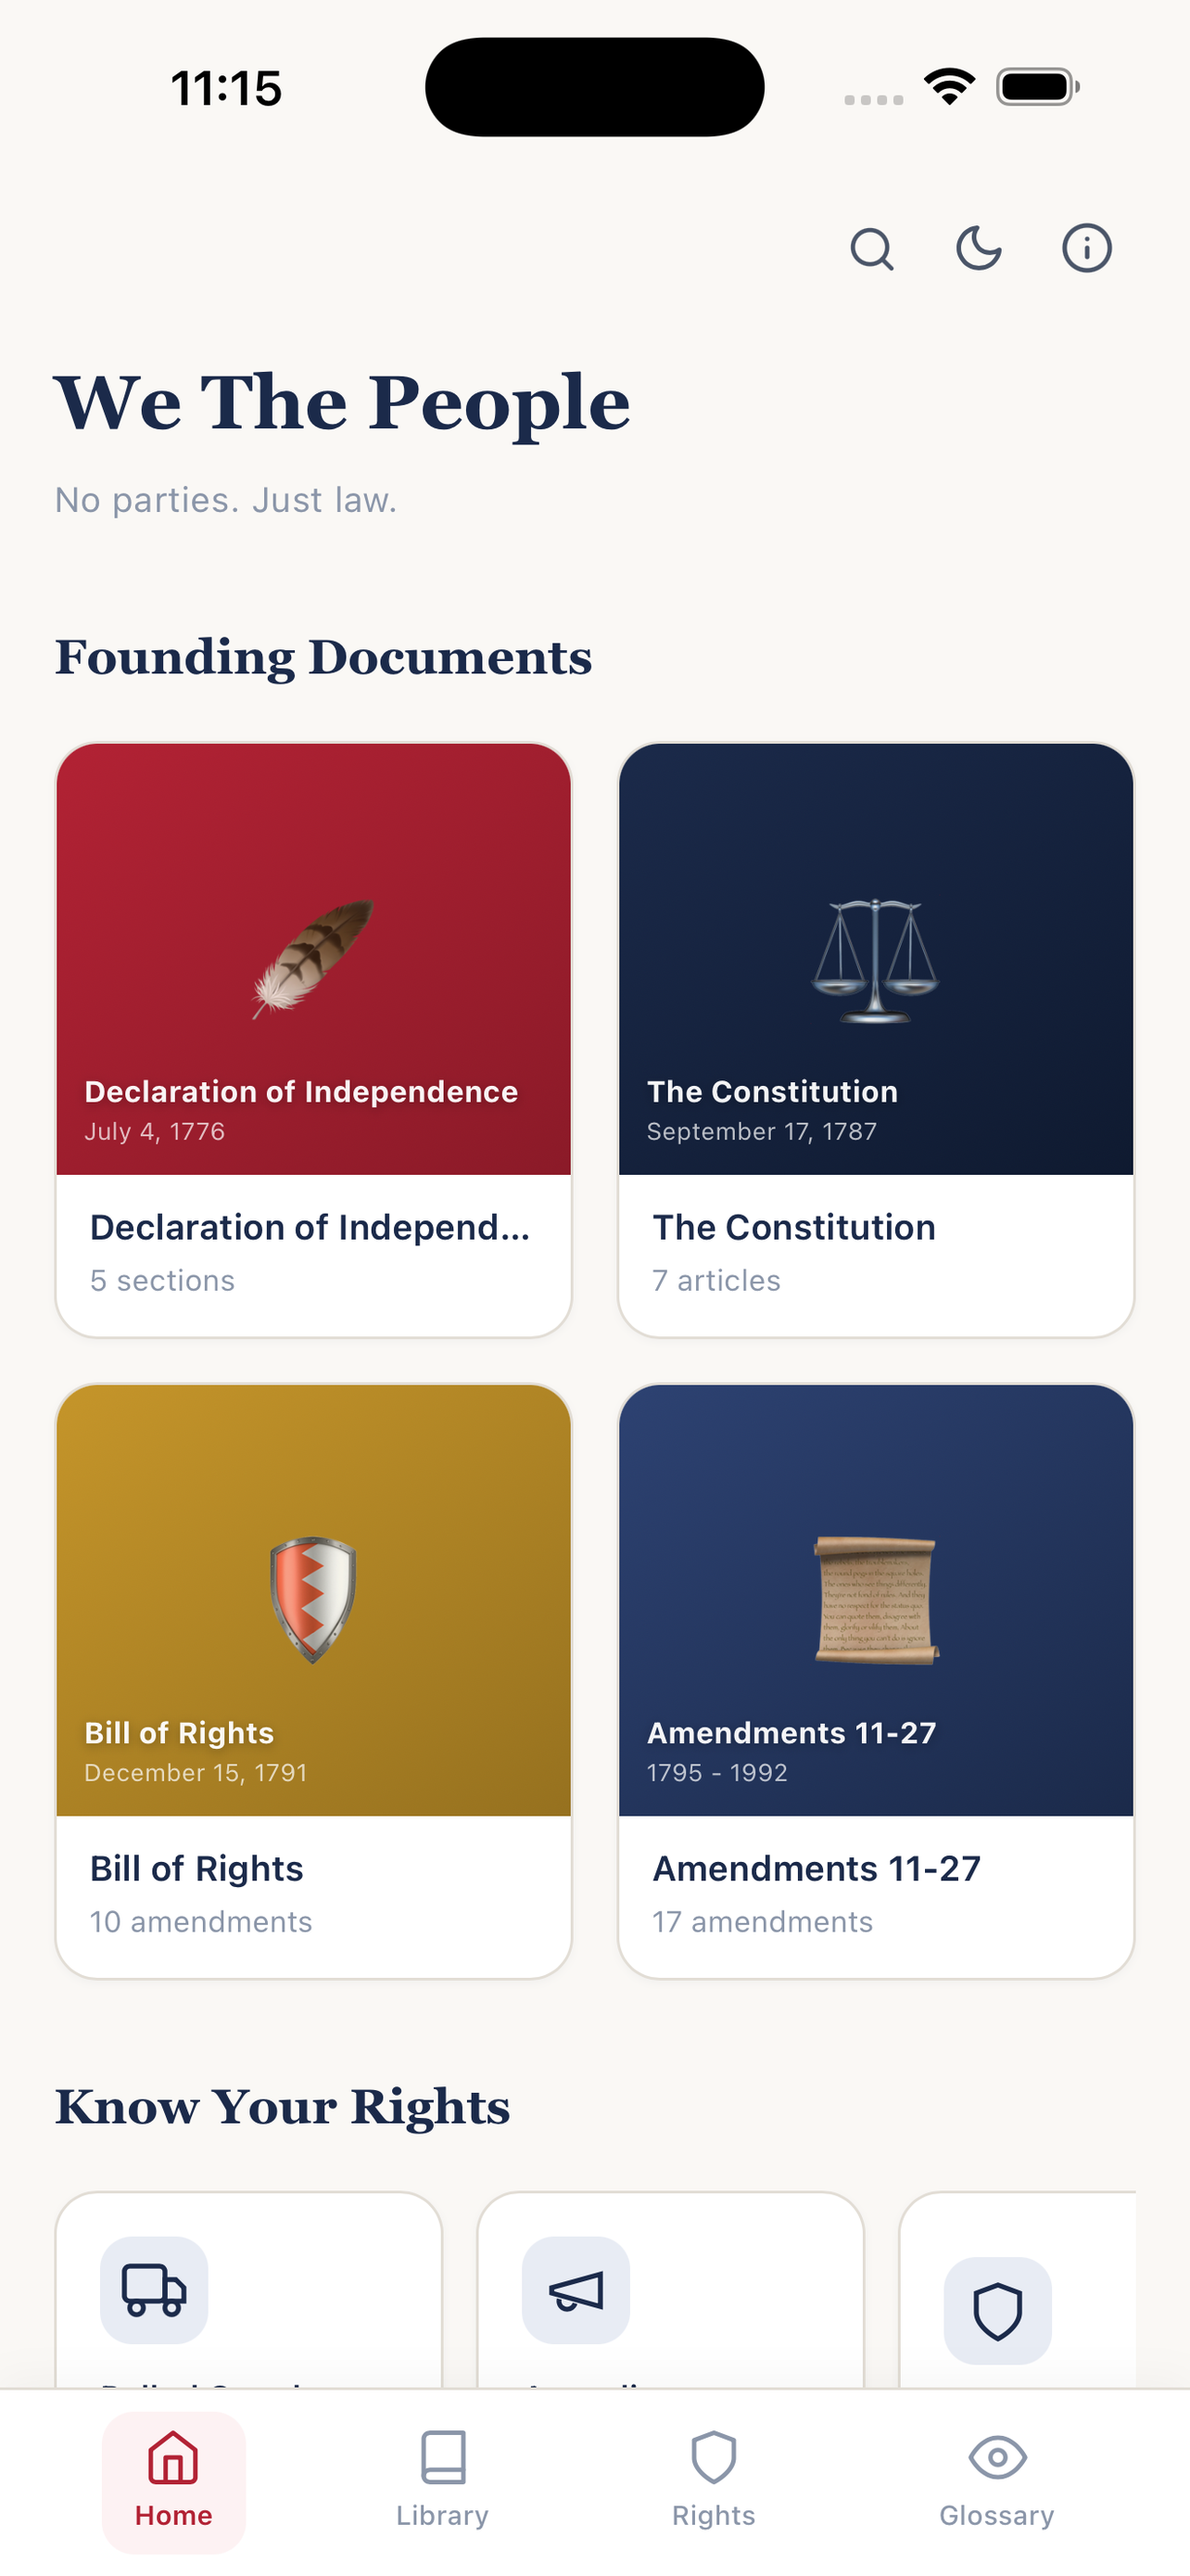
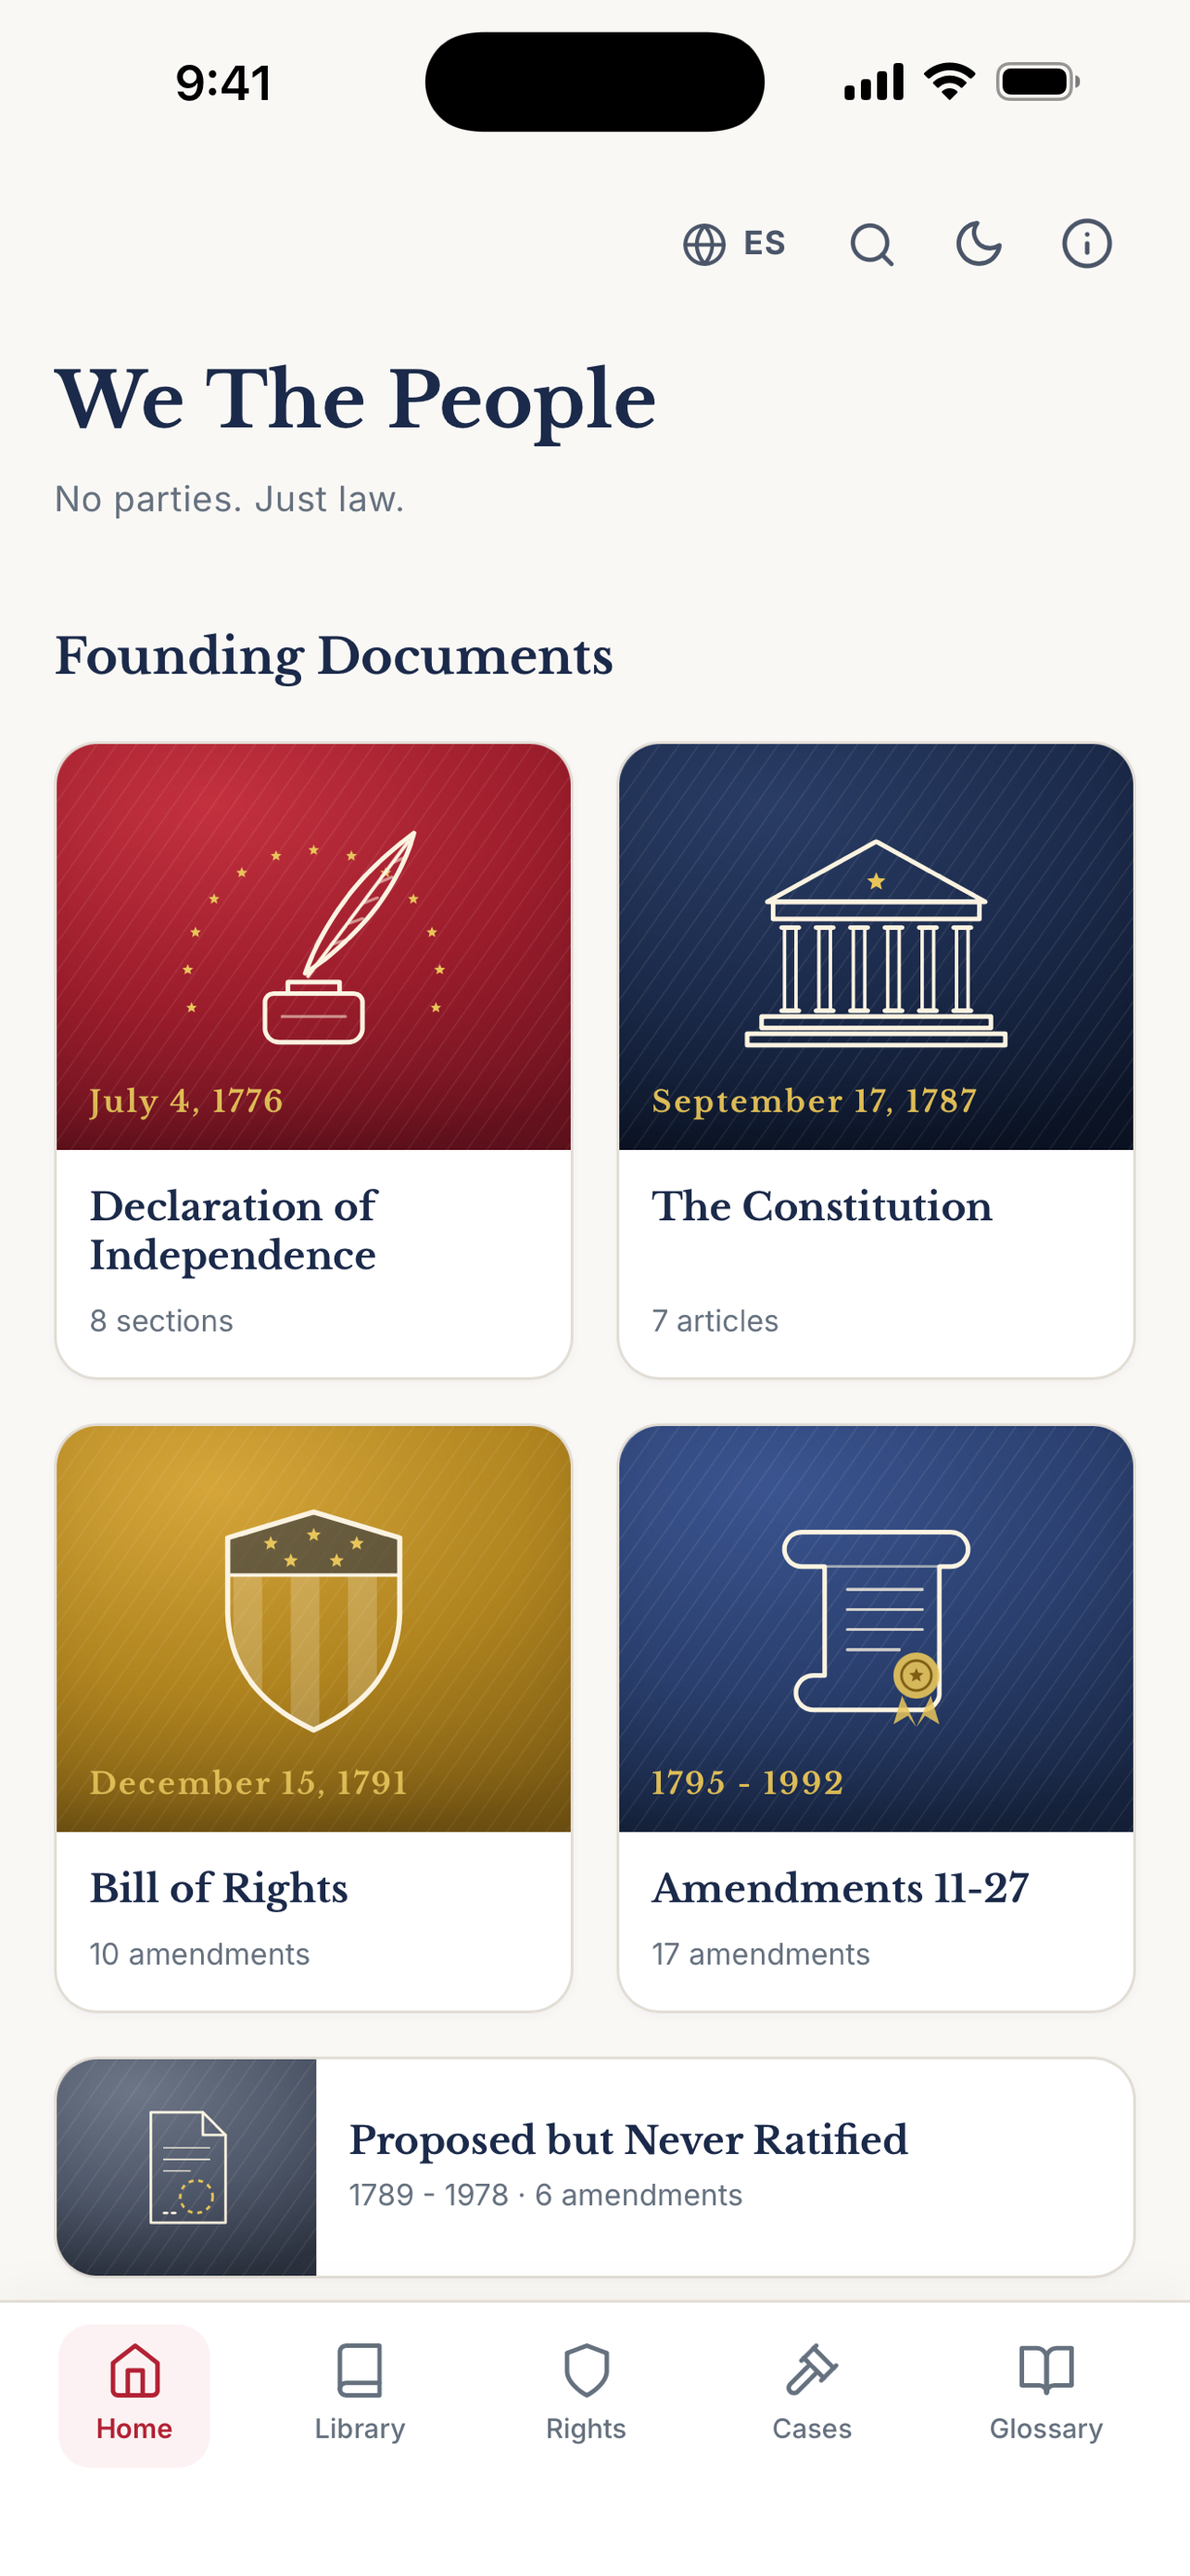
iPad layout, centered digital card, new store screenshots; build 1.3 (5)
- Widen every view on iPad-sized screens (md:max-w-2xl) and grow the
  document covers with the viewport
- Side by Side mode shows the original and plain-language text in two
  columns on wide screens
- Center the digital rights card vertically and scale its text up on
  larger screens so it reads through a window or door viewer
- Replace the App Store screenshots (iPhone 6.5" and iPad 13") with the
  current design

diff --git a/src/app/page.js b/src/app/page.js
@@ -536,7 +536,7 @@ function BottomNav({ activeView, setActiveView }) {
   ];
   return (
     <nav className="bottom-nav no-print" style={{ boxShadow: '0 -2px 16px rgba(0,0,0,0.04)' }}>
-      <div className="max-w-lg mx-auto flex items-center justify-around py-2 px-2">
+      <div className="max-w-lg md:max-w-2xl mx-auto flex items-center justify-around py-2 px-2">
         {items.map(item => (
           <button
             key={item.id}
@@ -573,7 +573,7 @@ function TopBar({ darkMode, setDarkMode, onSearchOpen, onAboutOpen, onHome, canG
   }, []);
   return (
     <header className="no-print sticky top-0 z-40" style={{ background: 'var(--bg-primary)', paddingTop: 'env(safe-area-inset-top, 0px)', borderBottom: scrolled ? '1px solid var(--border-light)' : '1px solid transparent', transition: 'border-color 0.2s' }}>
-      <div className="max-w-lg mx-auto px-5 pt-3 pb-2 flex items-center justify-between">
+      <div className="max-w-lg md:max-w-2xl mx-auto px-5 md:px-8 pt-3 pb-2 flex items-center justify-between">
         {canGoBack ? (
           <button onClick={onBack} className="flex items-center gap-0.5 py-1.5 pr-3 -ml-1.5 rounded-xl" style={{ color: 'var(--navy)', fontSize: '15px', fontWeight: 600 }} aria-label={t.back}>
             <Icon.ChevronLeft /> {t.back}
@@ -639,7 +639,7 @@ function HomeView({ setActiveView, navigate }) {
   const { t, data } = useApp();
   const caseCount = Object.keys(data.cases).length;
   return (
-    <div className="max-w-lg mx-auto px-5 pb-32 pt-2">
+    <div className="max-w-lg md:max-w-2xl mx-auto px-5 md:px-8 pb-32 pt-2">
       <h1 className="fade-in-up visible" style={{ fontSize: '28px', fontWeight: '800', color: 'var(--text-primary)', fontFamily: SERIF }}>
         We The People
       </h1>
@@ -664,7 +664,7 @@ function HomeView({ setActiveView, navigate }) {
             className="text-left rounded-2xl overflow-hidden border flex flex-col justify-start"
             style={{ background: 'var(--bg-card)', borderColor: 'var(--border)', boxShadow: 'var(--shadow-sm)' }}
           >
-            <div style={{ width: '100%' }}><DocCover id={doc.id} label={doc.sub} /></div>
+            <div style={{ width: '100%' }}><DocCover id={doc.id} label={doc.sub} height="clamp(150px, 20vw, 200px)" /></div>
             <div className="p-3 flex-1 flex flex-col" style={{ width: '100%' }}>
               <p style={{ fontFamily: SERIF, fontSize: '14px', fontWeight: '700', color: 'var(--text-primary)', lineHeight: '1.3' }}>{doc.title}</p>
               <p style={{ fontSize: '11px', color: 'var(--text-tertiary)', marginTop: 'auto', paddingTop: '6px' }}>{doc.sections}</p>
@@ -798,7 +798,7 @@ function LibraryView({ activeDoc, selectDoc, onOpenCase, scrollAnchor, clearScro
   }, [meta.signers]);
 
   return (
-    <div className="max-w-lg mx-auto px-5 pb-32 pt-2">
+    <div className="max-w-lg md:max-w-2xl mx-auto px-5 md:px-8 pb-32 pt-2">
       {/* Document selector tabs */}
       <div className="flex gap-2 overflow-x-auto hide-scrollbar pb-1" role="tablist">
         {docIds(data).map(id => (
@@ -821,7 +821,7 @@ function LibraryView({ activeDoc, selectDoc, onOpenCase, scrollAnchor, clearScro
       {/* Cover banner */}
       {DOC_COVERS[activeDoc] && (
         <div className="mt-5 rounded-2xl overflow-hidden" style={{ boxShadow: 'var(--shadow-sm)' }}>
-          <DocCover id={activeDoc} height={128} />
+          <DocCover id={activeDoc} height="clamp(128px, 16vw, 170px)" />
         </div>
       )}
 
@@ -994,7 +994,7 @@ function CaseModal({ caseKey, onClose, onOpenCase, navigate }) {
         role="dialog"
         aria-modal="true"
         aria-labelledby="case-title"
-        className="relative w-full max-w-md rounded-t-2xl sm:rounded-2xl overflow-hidden"
+        className="relative w-full max-w-md md:max-w-xl rounded-t-2xl sm:rounded-2xl overflow-hidden"
         style={{ background: 'var(--bg-card)', boxShadow: 'var(--shadow-xl)', maxHeight: '85vh', paddingBottom: 'env(safe-area-inset-bottom, 0px)' }}
         onClick={e => e.stopPropagation()}
       >
@@ -1238,7 +1238,7 @@ function ContinuousSection({ section, idx, view, isFirst, onOpenCase }) {
       )}
 
       {view === 'both' && (
-        <div className="space-y-4">
+        <div className="space-y-4 md:space-y-0 md:grid md:grid-cols-2 md:gap-4">
           <div className="p-4 rounded-xl" style={{ background: 'var(--bg-secondary)' }}>
             <SectionLabel>{t.originalText}</SectionLabel>
             <p lang="en" style={{ fontFamily: SERIF, fontSize: '14px', lineHeight: '1.8', color: 'var(--text-secondary)', whiteSpace: 'pre-line' }}>{section.original}</p>
@@ -1361,7 +1361,7 @@ function RedCardModal({ card, scenarioId, onClose }) {
     <div role="dialog" aria-modal="true" aria-label={card.label || t.showCard} className="fixed inset-0 z-[200] flex flex-col" style={{ background: 'linear-gradient(160deg, #b22234 0%, #7d1622 100%)' }}>
       {/* Warning: never hand over the phone */}
       <div style={{ background: '#1b2a4a', paddingTop: 'calc(env(safe-area-inset-top, 0px) + 10px)', paddingBottom: '10px' }} className="px-4">
-        <div className="max-w-md mx-auto flex items-start gap-3">
+        <div className="max-w-md md:max-w-2xl mx-auto flex items-start gap-3">
           <span style={{ flexShrink: 0, marginTop: '1px' }}><Icon.Alert size={20} color="#e8c55a" /></span>
           <p style={{ fontSize: '12px', fontWeight: '700', color: '#e8c55a', lineHeight: '1.45', letterSpacing: '0.01em' }}>
             {t.cardWarning}
@@ -1373,12 +1373,12 @@ function RedCardModal({ card, scenarioId, onClose }) {
       </div>
 
       {/* Card face */}
-      <div className="flex-1 overflow-y-auto px-6 py-6" onClick={onClose} style={{ paddingBottom: 'calc(env(safe-area-inset-bottom, 0px) + 24px)' }}>
-        <div className="max-w-md mx-auto">
+      <div className="flex-1 overflow-y-auto px-6 py-6 flex flex-col" onClick={onClose} style={{ paddingBottom: 'calc(env(safe-area-inset-bottom, 0px) + 24px)' }}>
+        <div className="max-w-md md:max-w-2xl mx-auto w-full my-auto">
           {card.label && (
             <p style={{ fontSize: '10px', fontWeight: '700', color: 'rgba(255,255,255,0.6)', textTransform: 'uppercase', letterSpacing: '0.1em', textAlign: 'center', marginBottom: '6px' }}>{card.label}</p>
           )}
-          <p lang="en" style={{ fontSize: '11px', fontWeight: '800', color: 'rgba(255,255,255,0.8)', textTransform: 'uppercase', letterSpacing: '0.14em', textAlign: 'center' }}>
+          <p lang="en" style={{ fontSize: 'clamp(11px, 1.35vw, 14px)', fontWeight: '800', color: 'rgba(255,255,255,0.8)', textTransform: 'uppercase', letterSpacing: '0.14em', textAlign: 'center' }}>
             {audience}
           </p>
           <div className="dot-indicator my-3" aria-hidden="true">
@@ -1386,10 +1386,10 @@ function RedCardModal({ card, scenarioId, onClose }) {
             <span style={{ background: '#e8c55a', width: '18px', borderRadius: '3px' }} />
             <span style={{ background: 'rgba(255,255,255,0.35)' }} />
           </div>
-          <p lang="en" style={{ fontFamily: SERIF, fontSize: '19px', lineHeight: '1.65', color: 'white', fontWeight: '700', textShadow: '0 1px 3px rgba(0,0,0,0.25)' }}>
+          <p lang="en" style={{ fontFamily: SERIF, fontSize: 'clamp(19px, 2.9vw, 30px)', lineHeight: '1.65', color: 'white', fontWeight: '700', textShadow: '0 1px 3px rgba(0,0,0,0.25)' }}>
             {card.statement}
           </p>
-          <p style={{ fontSize: '13px', color: 'rgba(255,255,255,0.92)', marginTop: '20px', textAlign: 'center', fontWeight: '600', letterSpacing: '0.02em' }}>
+          <p style={{ fontSize: 'clamp(13px, 1.6vw, 17px)', color: 'rgba(255,255,255,0.92)', marginTop: '20px', textAlign: 'center', fontWeight: '600', letterSpacing: '0.02em' }}>
             {card.footer}
           </p>
 
@@ -1399,7 +1399,7 @@ function RedCardModal({ card, scenarioId, onClose }) {
               <p style={{ fontSize: '10px', fontWeight: '800', color: '#e8c55a', textTransform: 'uppercase', letterSpacing: '0.08em', marginBottom: '8px' }}>
                 {t.cardMeaning}
               </p>
-              <p style={{ fontSize: '13px', lineHeight: '1.65', color: 'rgba(255,255,255,0.95)', fontStyle: 'italic' }}>
+              <p style={{ fontSize: 'clamp(13px, 1.6vw, 17px)', lineHeight: '1.65', color: 'rgba(255,255,255,0.95)', fontStyle: 'italic' }}>
                 {card.statementTranslation}
               </p>
             </div>
@@ -1429,7 +1429,7 @@ function RightsView({ onOpenCase, navigate, activeId, openScenario }) {
     const referencedAmendments = [...new Set(active.rights.map(r => r.amendment))];
 
     return (
-      <div className="max-w-lg mx-auto px-5 pb-32 pt-2">
+      <div className="max-w-lg md:max-w-2xl mx-auto px-5 md:px-8 pb-32 pt-2">
         {cardOpen && active.card && <RedCardModal card={active.card} scenarioId={active.id} onClose={closeCard} />}
         <div className="flex items-center gap-4 mb-2">
           <div className="w-14 h-14 rounded-2xl flex items-center justify-center flex-shrink-0" style={{ background: 'var(--navy-lighter)', color: 'var(--navy)' }}>
@@ -1569,7 +1569,7 @@ function RightsView({ onOpenCase, navigate, activeId, openScenario }) {
   }
 
   return (
-    <div className="max-w-lg mx-auto px-5 pb-32 pt-2">
+    <div className="max-w-lg md:max-w-2xl mx-auto px-5 md:px-8 pb-32 pt-2">
       <h1 className="fade-in-up visible" style={{ fontSize: '28px', fontWeight: '800', color: 'var(--text-primary)', fontFamily: SERIF }}>
         {t.knowYourRights}
       </h1>
@@ -1634,7 +1634,7 @@ function CasesView({ onOpenCase }) {
   }, [all, filter, badge, sort]);
 
   return (
-    <div className="max-w-lg mx-auto px-5 pb-32 pt-2">
+    <div className="max-w-lg md:max-w-2xl mx-auto px-5 md:px-8 pb-32 pt-2">
       <h1 className="fade-in-up visible" style={{ fontSize: '28px', fontWeight: '800', color: 'var(--text-primary)', fontFamily: SERIF }}>{t.casesTitle}</h1>
       <p className="fade-in-up visible" style={{ fontSize: '14px', color: 'var(--text-secondary)', marginTop: '4px', lineHeight: '1.6' }}>{t.casesSubtitle(all.length)}</p>
 
@@ -1741,7 +1741,7 @@ function AboutView() {
   };
 
   return (
-    <div className="max-w-lg mx-auto px-5 pb-32 pt-2">
+    <div className="max-w-lg md:max-w-2xl mx-auto px-5 md:px-8 pb-32 pt-2">
       <h1 className="fade-in-up visible" style={{ fontSize: '28px', fontWeight: '800', color: 'var(--text-primary)', fontFamily: SERIF }}>
         {t.about.title}
       </h1>
@@ -1829,7 +1829,7 @@ function GlossaryView({ onOpenCase, focusTerm, clearFocusTerm }) {
   }, [focusTerm, clearFocusTerm]);
 
   return (
-    <div className="max-w-lg mx-auto px-5 pb-32 pt-2">
+    <div className="max-w-lg md:max-w-2xl mx-auto px-5 md:px-8 pb-32 pt-2">
       <h1 className="fade-in-up visible" style={{ fontSize: '28px', fontWeight: '800', color: 'var(--text-primary)', fontFamily: SERIF }}>
         {t.glossaryTitle}
       </h1>
@@ -1915,7 +1915,7 @@ function SearchModal({ onClose, searchIndex, onSelect }) {
   return (
     <div className="fixed inset-0 z-[100] flex items-start justify-center pt-[8vh] px-4" onClick={onClose}>
       <div className="absolute inset-0" style={{ background: 'rgba(15,22,35,0.45)', backdropFilter: 'blur(4px)' }} />
-      <div role="dialog" aria-modal="true" aria-label={t.a11y.search} className="relative w-full max-w-md rounded-2xl overflow-hidden"
+      <div role="dialog" aria-modal="true" aria-label={t.a11y.search} className="relative w-full max-w-md md:max-w-xl rounded-2xl overflow-hidden"
         style={{ background: 'var(--bg-card)', boxShadow: 'var(--shadow-xl)', maxHeight: '70vh' }}
         onClick={e => e.stopPropagation()}>
         <div className="flex items-center gap-3 p-4 border-b" style={{ borderColor: 'var(--border)', color: 'var(--text-tertiary)' }}>
